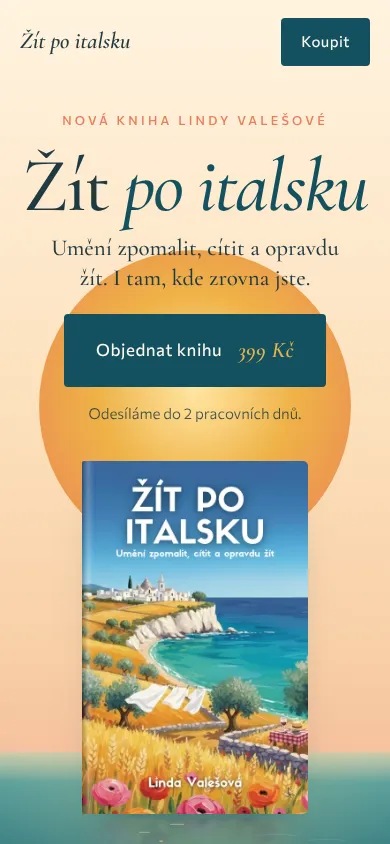
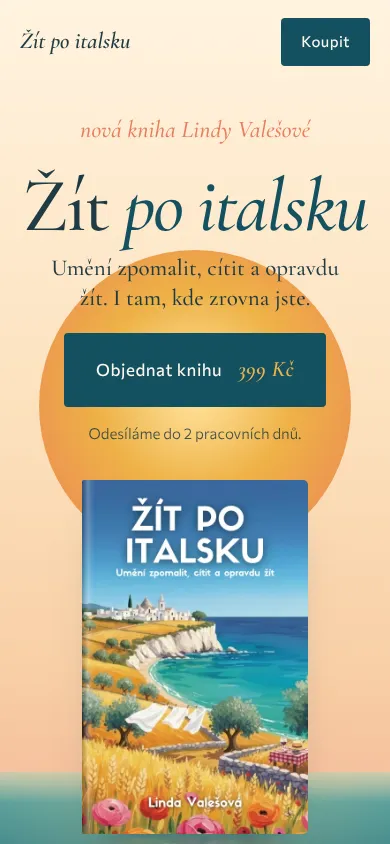
Dolce vita: obsah jako rozevřená kniha, méně šablonovitých prvků
- Obsah knihy jako dvoustrana ve formátu 135 × 210 mm: vlevo motto,
  vpravo úvod, kapitoly I–XVI, závěr a dodatek; stránka se při
  příjezdu otevře.
- Pryč velké prostrkané štítky, řada čísel 16/30/160, kurzívní druhé
  věty v nadpisech, lesk na tlačítku a seznam s fajfkami.
- Italský den: obrázek se zastaví s odstupem od okraje sekce, bez
  štítku s časem; třpyt na moři nezasahuje do textu.

Claude-Session: https://claude.ai/code/session_01YM1i9pLoztwLTmDntN8shw

diff --git a/varianty/c-dolce-vita.html b/varianty/c-dolce-vita.html
@@ -36,13 +36,11 @@ a{color:inherit}
 h1,h2,h3{font-family:var(--display);font-weight:500;line-height:1;margin:0;text-wrap:balance}
 p{margin:0}
 .wrap{width:min(1200px,100%);margin-inline:auto;padding-left:var(--gutter);padding-right:max(20px,env(safe-area-inset-right,0px))}
-.label{font-size:12.5px;font-weight:500;letter-spacing:.26em;text-transform:uppercase;color:var(--coral)}
+.label{font-family:var(--display);font-style:italic;font-size:24px;font-weight:500;color:var(--coral)}
 :focus-visible{outline:3px solid var(--gold);outline-offset:4px;border-radius:4px}
 
 .btn{display:inline-flex;align-items:center;justify-content:center;gap:16px;background:var(--sea);color:var(--cream);text-decoration:none;font-family:var(--body);font-weight:450;font-size:17px;letter-spacing:.03em;padding:18px 32px;border-radius:4px;border:0;cursor:pointer;position:relative;overflow:hidden;transition:transform .3s,box-shadow .3s}
-.btn::after{content:"";position:absolute;inset:0;background:linear-gradient(105deg,transparent 35%,rgba(236,178,76,.45) 50%,transparent 65%);transform:translateX(-120%);transition:transform .9s}
 .btn:hover{transform:translateY(-2px);box-shadow:0 14px 30px -14px rgba(19,80,95,.8)}
-.btn:hover::after{transform:translateX(120%)}
 .btn em{font-family:var(--display);font-size:22px;font-weight:600;color:var(--gold);font-style:italic}
 .link{text-decoration:none;border-bottom:1px solid var(--coral);padding-bottom:2px;transition:color .2s}
 .link:hover{color:var(--coral)}
@@ -87,7 +85,7 @@ nav a:hover{opacity:1;color:var(--sea)}
 .trust span+span::before{content:"";width:4px;height:4px;border-radius:50%;background:var(--gold);margin-right:18px}
 
 /* ---------- Jeden italský den ---------- */
-.day{background:var(--day);transition:background-color 1.2s ease}
+.day{background:var(--day);transition:background-color 1.2s ease;padding-bottom:110px}
 .day-intro{text-align:center;padding-block:120px 40px}
 .day-intro h2{font-size:clamp(46px,6vw,84px);margin-top:16px}
 .day-intro h2 em{color:var(--coral)}
@@ -96,32 +94,40 @@ nav a:hover{opacity:1;color:var(--sea)}
 .frame{position:sticky;top:12vh;height:76vh;border-radius:300px 300px 12px 12px;overflow:hidden;box-shadow:0 40px 70px -40px rgba(19,60,70,.6);background:var(--peach)}
 .frame img{position:absolute;inset:0;width:100%;height:100%;object-fit:cover;opacity:0;transform:scale(1.08);transition:opacity 1.1s ease,transform 6s ease}
 .frame img.on{opacity:1;transform:scale(1)}
-.frame .clock{position:absolute;left:20px;bottom:20px;background:rgba(255,247,236,.9);backdrop-filter:blur(6px);padding:8px 16px;border-radius:999px;font-family:var(--display);font-size:24px;font-weight:600;font-variant-numeric:tabular-nums;color:var(--sea)}
-.steps{padding-block:6vh 18vh}
+.steps{padding-block:6vh 12vh}
 .step{min-height:76vh;display:flex;flex-direction:column;justify-content:center;opacity:.28;transition:opacity .6s}
 .step.on{opacity:1}
 .step time{font-family:var(--display);font-style:italic;font-size:clamp(70px,8vw,120px);font-weight:500;line-height:1;color:var(--coral);font-variant-numeric:tabular-nums}
 .step h3{font-size:clamp(34px,3.4vw,46px);margin:10px 0 18px}
 .step p{color:var(--soft);max-width:440px}
-.step .ch{margin-top:18px;font-size:13px;letter-spacing:.2em;text-transform:uppercase;color:var(--sea-2)}
+.step .ch{margin-top:16px;font-family:var(--display);font-style:italic;font-size:20px;color:var(--sea-2)}
 .step img{display:none}
 
 /* ---------- Obsah knihy ---------- */
-.toc{padding-block:120px;display:grid;grid-template-columns:.8fr 1.2fr;gap:80px}
-.toc h2{font-size:clamp(44px,5vw,70px);margin-top:16px}
-.toc .facts{display:flex;gap:40px;margin-top:36px}
-.toc .facts b{display:block;font-family:var(--display);font-size:64px;font-weight:500;line-height:1;color:var(--sea)}
-.toc .facts span{font-size:14px;color:var(--soft)}
-.toc ol{list-style:none;margin:0;padding:0;columns:2;column-gap:50px;counter-reset:ch}
-.toc li{counter-increment:ch;display:grid;grid-template-columns:44px 1fr;padding:12px 0;border-bottom:1px solid var(--line);break-inside:avoid;font-size:16.5px;line-height:1.45}
-.toc li::before{content:counter(ch,decimal-leading-zero);font-family:var(--display);font-style:italic;font-size:22px;font-weight:600;color:var(--coral);line-height:1.1}
-.toc .extra{margin-top:26px;color:var(--soft);font-size:16px}
-
+/* Obsah jako rozevřená kniha ve skutečném formátu 135 × 210 mm. */
+.contents{padding-block:120px 130px}
+.contents-head{max-width:620px;margin:0 auto 56px;text-align:center}
+.contents-head h2{font-size:clamp(42px,4.6vw,62px)}
+.contents-head p{margin-top:16px;color:var(--soft)}
+.spread{display:grid;grid-template-columns:1fr 1fr;max-width:1000px;margin-inline:auto;perspective:2200px;filter:drop-shadow(0 34px 40px rgba(60,40,20,.22))}
+.page{aspect-ratio:135/210;background:#FFFCF4;padding:clamp(34px,5vw,64px) clamp(28px,4.4vw,58px);position:relative;min-width:0}
+.page.left{border-radius:6px 0 0 6px;background:linear-gradient(90deg,#FFFCF4 0%,#FFFCF4 86%,#EFE6D6 100%);display:flex;flex-direction:column;justify-content:center;text-align:center}
+.page.right{border-radius:0 6px 6px 0;background:linear-gradient(90deg,#E9DFCD 0%,#FFFCF4 12%);transform-origin:left center;transition:transform 1.4s cubic-bezier(.3,.7,.2,1)}
+.spread.closed .page.right{transform:rotateY(-100deg)}
+.epigraph{font-family:var(--display);font-style:italic;font-weight:500;font-size:clamp(22px,2.3vw,30px);line-height:1.35;color:var(--ink);max-width:330px;margin:0 auto}
+.epigraph-src{margin-top:22px;font-family:var(--display);font-size:17px;color:var(--soft)}
+.page h3{font-family:var(--display);font-style:italic;font-weight:500;font-size:30px;text-align:center;margin-bottom:clamp(14px,2vw,26px)}
+.page ol{list-style:none;margin:0;padding:0;font-family:var(--display);font-size:clamp(15px,1.55vw,19px);line-height:1.25;font-weight:500}
+.page li{display:grid;grid-template-columns:2.6em 1fr;gap:.5em;padding:.32em 0}
+.page li i{font-style:normal;text-align:right;color:var(--coral);font-variant:small-caps;letter-spacing:.04em}
+.page li.extra{font-style:italic;color:var(--soft)}
+.page li.extra:first-child{margin-bottom:.3em}
+.page li.extra.end{margin-top:.3em}
 /* ---------- Citát ---------- */
 .quote{background:var(--sea);color:var(--cream);padding-block:130px;position:relative;overflow:hidden;text-align:center}
 .quote::before{content:"";position:absolute;left:50%;top:-200px;width:600px;height:600px;translate:-50% 0;border-radius:50%;background:radial-gradient(closest-side,rgba(236,178,76,.35),transparent)}
 .quote blockquote{position:relative;margin:0 auto;max-width:960px;font-family:var(--display);font-style:italic;font-weight:500;font-size:clamp(36px,5vw,68px);line-height:1.1}
-.quote cite{position:relative;display:block;margin-top:34px;font-style:normal;font-size:13px;letter-spacing:.26em;text-transform:uppercase;color:var(--gold)}
+.quote cite{position:relative;display:block;margin-top:30px;font-family:var(--display);font-style:normal;font-size:22px;color:var(--gold)}
 
 /* ---------- Autorka ---------- */
 .author{padding-block:120px;display:grid;grid-template-columns:auto 1fr;gap:90px;align-items:center}
@@ -144,9 +150,7 @@ nav a:hover{opacity:1;color:var(--sea)}
 .price b{font-family:var(--display);font-size:76px;font-weight:600;line-height:1}
 .price span{color:var(--ink);opacity:.75;font-size:15px}
 .specs{font-size:15px;opacity:.8}
-.ticks{list-style:none;margin:24px 0 32px;padding:0;display:grid;gap:8px}
-.ticks li{display:flex;gap:12px;align-items:baseline}
-.ticks li::before{content:"";width:18px;height:1px;background:var(--sea);flex:none;translate:0 -4px}
+.offer .note{margin:22px 0 30px;max-width:420px}
 .pay{margin-top:18px;font-size:14px;opacity:.8}
 .offer .book{justify-self:center;width:min(290px,70vw);animation:none;transform:rotate(-3deg);transition:transform .6s cubic-bezier(.2,.8,.2,1)}
 .offer .book:hover{transform:rotate(0) translateY(-8px)}
@@ -197,10 +201,14 @@ footer nav{flex-wrap:wrap;gap:10px 26px;font-size:14px}
   .story{grid-template-columns:1fr;gap:0}
   .frame{display:none}
   .steps{padding-block:0 60px}
+  .day{padding-bottom:10px}
   .step{min-height:auto;opacity:1;padding-block:30px 50px}
   .step img{display:block;border-radius:200px 200px 10px 10px;aspect-ratio:4/4.4;object-fit:cover;margin-bottom:24px}
-  .toc,.author{grid-template-columns:1fr;gap:50px}
-  .toc ol{columns:1}
+  .author{grid-template-columns:1fr;gap:50px}
+  .spread{grid-template-columns:1fr;max-width:460px}
+  .page.left{display:none}
+  .page.right{aspect-ratio:auto;border-radius:6px;background:#FFFCF4;padding:40px 22px}
+  .page ol{font-size:17px}
   .portrait{width:min(300px,76vw);justify-self:center}
   .offer-card{grid-template-columns:1fr;padding:50px 26px;gap:30px}
   .offer .book{order:-1;width:200px}
@@ -211,9 +219,8 @@ footer nav{flex-wrap:wrap;gap:10px 26px;font-size:14px}
   .logo{font-size:23px}
   .head .btn em{display:none}
   .buybox .btn{width:100%}
-  .day-intro,.toc,.author{padding-block:80px}
+  .day-intro,.contents,.author{padding-block:80px}
   .quote{padding-block:90px}
-  .toc .facts b{font-size:52px}
 }
 @media (prefers-reduced-motion:reduce){
   *,*::before,*::after{animation:none!important;transition:none!important}
@@ -226,7 +233,7 @@ footer nav{flex-wrap:wrap;gap:10px 26px;font-size:14px}
 <header>
   <div class="wrap head">
     <a class="logo" href="#">Žít po italsku</a>
-    <nav aria-label="Navigace"><a href="#den">Jeden den</a><a href="#obsah">Obsah</a><a href="#autorka">Autorka</a><a href="#otazky">Otázky</a></nav>
+    <nav aria-label="Navigace"><a href="#den">Italský den</a><a href="#obsah">Obsah</a><a href="#autorka">Autorka</a><a href="#otazky">Otázky</a></nav>
     <a class="btn" href="#objednat" data-buy>Koupit <em data-price></em></a>
   </div>
 </header>
@@ -235,7 +242,7 @@ footer nav{flex-wrap:wrap;gap:10px 26px;font-size:14px}
 <section class="hero" aria-labelledby="titul">
   <div class="sun" aria-hidden="true"></div>
   <div class="wrap">
-    <p class="label tag" style="position:relative;z-index:2">Nová kniha Lindy Valešové</p>
+    <p class="label tag" style="position:relative;z-index:2">nová kniha Lindy Valešové</p>
     <h1 id="titul"><span class="w">Žít</span> <span class="w"><em>po</em></span> <span class="w"><em>italsku</em></span></h1>
     <div class="scene">
       <p class="lead">Umění zpomalit, cítit a&nbsp;opravdu žít. I&nbsp;tam, kde zrovna jste.</p>
@@ -251,8 +258,7 @@ footer nav{flex-wrap:wrap;gap:10px 26px;font-size:14px}
 
 <section class="day" id="den" aria-labelledby="jeden-den">
   <div class="wrap day-intro reveal">
-    <p class="label">O&nbsp;knize</p>
-    <h2 id="jeden-den">Jeden italský den. <em>Kdekoli.</em></h2>
+    <h2 id="jeden-den">Italský den, kdekoli jste</h2>
     <p>Kniha nevede na dovolenou. Vede do vašeho obyčejného úterý a&nbsp;ukazuje, jak ho prožít pomaleji, chutněji a&nbsp;víc po svém.</p>
   </div>
   <div class="wrap story">
@@ -260,7 +266,6 @@ footer nav{flex-wrap:wrap;gap:10px 26px;font-size:14px}
       <img class="on" src="../assets/ranni-kava.webp" width="640" height="800" alt="">
       <img src="../assets/u-stolu.webp" width="640" height="800" alt="" loading="lazy">
       <img src="../assets/chvile-pro-sebe.webp" width="640" height="800" alt="" loading="lazy">
-      <span class="clock" id="clock">8:00</span>
     </div>
     <div class="steps">
       <article class="step on" data-step="0" data-time="8:00" data-tone="#FFF1D8">
@@ -268,37 +273,60 @@ footer nav{flex-wrap:wrap;gap:10px 26px;font-size:14px}
         <time>8:00</time>
         <h3>Ráno, které určuje den</h3>
         <p>Otevřít okno. Vypít kávu vsedě a&nbsp;bez telefonu. Nechat první minuty dne patřit jen vám, než si je vezme svět.</p>
-        <p class="ch">Kapitola 2</p>
+        <p class="ch">z&nbsp;kapitoly Ráno, které určuje den</p>
       </article>
       <article class="step" data-step="1" data-time="13:00" data-tone="#E6F1EC">
         <img src="../assets/u-stolu.webp" width="640" height="800" loading="lazy" alt="Ilustrace společného oběda na terase nad mořem">
         <time>13:00</time>
         <h3>Oběd, který nikam nespěchá</h3>
         <p>Sednout si ke stolu. Ochutnat. Být spolu. Italové vědí, že jídlo není pauza mezi prací, ale to, kvůli čemu se pracuje.</p>
-        <p class="ch">Kapitola 3</p>
+        <p class="ch">z&nbsp;kapitoly Jídlo jako rituál, ne jako povinnost</p>
       </article>
       <article class="step" data-step="2" data-time="19:30" data-tone="#FBDCC6">
         <img src="../assets/chvile-pro-sebe.webp" width="640" height="800" loading="lazy" alt="Ilustrace ženy s knihou na lehátku při západu slunce">
         <time>19:30</time>
         <h3>Il dolce far niente</h3>
         <p>Sladké nicnedělání. Chvíle, kdy nic nemusíte, a&nbsp;přesto je to ten nejlepší čas dne. Bez výčitek, bez seznamu úkolů.</p>
-        <p class="ch">Kapitola 8</p>
+        <p class="ch">z&nbsp;kapitoly Il dolce far niente</p>
       </article>
     </div>
   </div>
 </section>
 
-<section class="wrap toc" id="obsah" aria-labelledby="co-uvnitr">
-  <div class="reveal">
-    <p class="label">Obsah</p>
-    <h2 id="co-uvnitr">Trochu Itálie. O&nbsp;něco víc vás.</h2>
-    <div class="facts"><div><b>16</b><span>kapitol</span></div><div><b>30</b><span>malých rozhodnutí</span></div><div><b>160</b><span>stran</span></div></div>
+<section class="wrap contents" id="obsah" aria-labelledby="co-uvnitr">
+  <div class="contents-head reveal">
+    <h2 id="co-uvnitr">Nahlédněte do obsahu</h2>
+    <p>Šestnáct kapitol o&nbsp;obyčejném životě, který stojí za pozornost. Číst je můžete popořadě, nebo tu, kterou zrovna potřebujete.</p>
   </div>
-  <div class="reveal">
-    <ol>
-      <li>Itálie není země. Je to tempo.</li><li>Ráno, které určuje den</li><li>Jídlo jako rituál, ne jako povinnost</li><li>Styl jako energie</li><li>Komunikace, která nikam nespěchá</li><li>Práce bez permanentního napětí</li><li>Volný čas bez pocitu viny</li><li>Il dolce far niente</li><li>Italská dlouhověkost: co za ní skutečně je</li><li>Nedokonalost, která nechá člověka dýchat</li><li>Radost jako způsob života</li><li>Italové a&nbsp;rodina</li><li>Jak Itálie změnila moje vztahy</li><li>Samota, která není prázdná</li><li>Kde je domov, když se člověk změní</li><li>Jak si vytvořit vlastní italský svět odkudkoli</li>
-    </ol>
-    <p class="extra">Na konci čeká 30 malých rozhodnutí pro pomalejší život. Můžete začít hned zítra ráno.</p>
+  <div class="spread closed" id="spread">
+    <div class="page left" aria-hidden="true">
+      <p class="epigraph">Život nezačne, až budete mít víc času. Začne ve chvíli, kdy mu ten čas dáte.</p>
+      <p class="epigraph-src">Linda Valešová</p>
+    </div>
+    <div class="page right">
+      <h3>Obsah</h3>
+      <ol>
+          <li class="extra"><i></i><span>Úvod</span></li>
+          <li><i>i.</i><span>Itálie není země. Je to tempo.</span></li>
+          <li><i>ii.</i><span>Ráno, které určuje den</span></li>
+          <li><i>iii.</i><span>Jídlo jako rituál, ne jako povinnost</span></li>
+          <li><i>iv.</i><span>Styl jako energie</span></li>
+          <li><i>v.</i><span>Komunikace, která nikam nespěchá</span></li>
+          <li><i>vi.</i><span>Práce bez permanentního napětí</span></li>
+          <li><i>vii.</i><span>Volný čas bez pocitu viny</span></li>
+          <li><i>viii.</i><span>Il dolce far niente</span></li>
+          <li><i>ix.</i><span>Italská dlouhověkost: co za ní skutečně je</span></li>
+          <li><i>x.</i><span>Nedokonalost, která nechá člověka dýchat</span></li>
+          <li><i>xi.</i><span>Radost jako způsob života</span></li>
+          <li><i>xii.</i><span>Italové a&nbsp;rodina</span></li>
+          <li><i>xiii.</i><span>Jak Itálie změnila moje vztahy</span></li>
+          <li><i>xiv.</i><span>Samota, která není prázdná</span></li>
+          <li><i>xv.</i><span>Kde je domov, když se člověk změní</span></li>
+          <li><i>xvi.</i><span>Jak si vytvořit vlastní italský svět odkudkoli</span></li>
+          <li class="extra end"><i></i><span>Závěr: Nečekejte na život</span></li>
+          <li class="extra"><i></i><span>30 malých rozhodnutí pro pomalejší život</span></li>
+      </ol>
+    </div>
   </div>
 </section>
 
@@ -312,7 +340,6 @@ footer nav{flex-wrap:wrap;gap:10px 26px;font-size:14px}
 <section class="wrap author" id="autorka" aria-labelledby="linda">
   <div class="portrait reveal"><img src="../assets/italska-ulicka.webp" width="800" height="1000" loading="lazy" alt="Ilustrace ženy v italské uličce s výhledem na moře"></div>
   <div class="reveal">
-    <p class="label">Autorka</p>
     <h2 id="linda">Linda Valešová</h2>
     <p class="big">Itálie pro ni začala jako láska. Stala se cestou zpátky k&nbsp;sobě.</p>
     <p>Italštině a&nbsp;italské kultuře se věnuje přes třináct let. Našla v&nbsp;nich víc než krásná místa a&nbsp;nový jazyk: jiný pohled na čas, vztahy, práci i&nbsp;radost z&nbsp;obyčejných dní.</p>
@@ -324,15 +351,10 @@ footer nav{flex-wrap:wrap;gap:10px 26px;font-size:14px}
 <section class="wrap offer" id="objednat" aria-labelledby="koupit">
   <div class="offer-card reveal">
     <div>
-      <p class="label" style="color:var(--sea)">Pro vás nebo jako dárek</p>
-      <h2 id="koupit">Italská lehkost začíná <em>první stránkou.</em></h2>
+      <h2 id="koupit">Italská lehkost začíná první stránkou</h2>
       <div class="price"><b data-price></b><span>včetně DPH</span></div>
       <p class="specs">Brožovaná · 160 stran · 135 × 210 mm</p>
-      <ul class="ticks">
-        <li>Odesíláme do 2 pracovních dnů</li>
-        <li>Krásný dárek pod stromeček</li>
-        <li>14 dní na vrácení bez udání důvodu</li>
-      </ul>
+      <p class="note">Odešleme ji do dvou pracovních dnů, takže stihne i&nbsp;Vánoce. Kdyby vám nesedla, do čtrnácti dnů ji můžete vrátit.</p>
       <a class="btn" href="#" data-buy>Objednat knihu <em data-price></em></a>
       <p class="pay">Kartou, Apple Pay nebo Google Pay. Platbu bezpečně zpracuje Stripe.</p>
     </div>
@@ -392,7 +414,7 @@ if (!calm && 'IntersectionObserver' in window) {
 }
 /* Jeden den: aktivní je vždy krok nejblíž středu obrazovky. Počítá se při každém scrollu,
    takže nevynechá krok ani při rychlém scrollu nebo uvnitř vloženého rámu. */
-const day = document.querySelector('.day'), frames = [...document.querySelectorAll('.frame img')], clock = document.getElementById('clock');
+const day = document.querySelector('.day'), frames = [...document.querySelectorAll('.frame img')];
 const steps = [...document.querySelectorAll('.step')];
 let current = -1;
 function pickStep() {
@@ -404,7 +426,6 @@ function pickStep() {
   const s = steps[best];
   steps.forEach((x, i) => x.classList.toggle('on', i === best));
   frames.forEach((f, i) => f.classList.toggle('on', i === best));
-  clock.textContent = s.dataset.time;
   day.style.setProperty('--day', s.dataset.tone);
 }
 let ticking = false;
@@ -422,7 +443,7 @@ function setupSea() {
   canvas.width = W * dpr; canvas.height = H * dpr; ctx.setTransform(dpr, 0, 0, dpr, 0, 0);
   glints = Array.from({ length: Math.round(W / 5) }, () => {
     const d = Math.random() ** 1.5;
-    return { d, y: 4 + d * (H - 4), x: W / 2 + gauss() * (30 + 300 * d), len: 2 + (4 + 30 * d) * Math.random(), th: .8 + 1.6 * d, sp: .6 + Math.random() * 1.8, ph: Math.random() * 6.28 };
+    return { d, y: 4 + d * (H - 64), x: W / 2 + gauss() * (30 + 300 * d), len: 2 + (4 + 30 * d) * Math.random(), th: .8 + 1.6 * d, sp: .6 + Math.random() * 1.8, ph: Math.random() * 6.28 };
   });
   ripples = Array.from({ length: Math.round(W / 22) }, () => {
     const d = Math.random() ** 1.3;
@@ -451,6 +472,10 @@ function loop(ms) { if (!running) return; drawSea(ms / 1000); requestAnimationFr
 setupSea(); drawSea(1.3);
 addEventListener('resize', () => { setupSea(); drawSea(1.3); });
 if (!calm) new IntersectionObserver(([e]) => { const was = running; running = e.isIntersecting; if (running && !was) requestAnimationFrame(loop); }).observe(canvas);
+
+const spread = document.getElementById('spread');
+const openBook = () => { const r = spread.getBoundingClientRect(); if (calm || r.top < innerHeight * .75) { spread.classList.remove('closed'); removeEventListener('scroll', openBook); } };
+if (spread.getBoundingClientRect().top < innerHeight) spread.classList.remove('closed'); else { addEventListener('scroll', openBook, { passive: true }); }
 
 const dock = document.querySelector('.dock'), hero = document.querySelector('.hero'), offer = document.getElementById('objednat');
 let heroOut = false, offerIn = false;

diff --git a/varianty/index.html b/varianty/index.html
@@ -114,7 +114,7 @@ header p{max-width:680px;color:var(--soft);font-size:19px}
         <dl>
           <div><dt>Písmo</dt><dd>Cormorant Garamond (klasická knižní antikva) a Commissioner na text</dd></div>
           <div><dt>Barvy</dt><dd><span class="sw"><i style="background:#FFF7EC"></i><i style="background:#F8CFA6"></i><i style="background:#ECB24C"></i><i style="background:#E77E5A"></i><i style="background:#13505F"></i></span></dd></div>
-          <div><dt>Animace</dt><dd>Slunce vychází, kniha se vynoří a zrcadlí na hladině, po moři se třpytí slunce. Při scrollu „Jeden italský den“ (8:00 → 13:00 → 19:30) se mění obrázek, hodiny i barva světla.</dd></div>
+          <div><dt>Animace</dt><dd>Slunce vychází, kniha se vynoří a zrcadlí na hladině, po moři se třpytí slunce. Při scrollu „Italský den“ (8:00 → 13:00 → 19:30) se mění obrázek i barva světla. Obsah knihy se otevře jako rozevřená kniha.</dd></div>
         </dl>
         <a class="open" href="c-dolce-vita.html">Otevřít Dolce vitu</a>
       </div>
